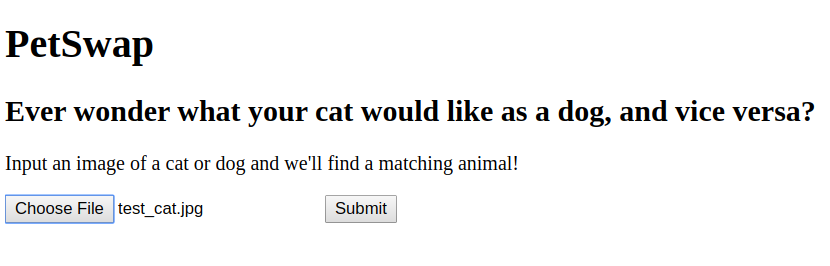
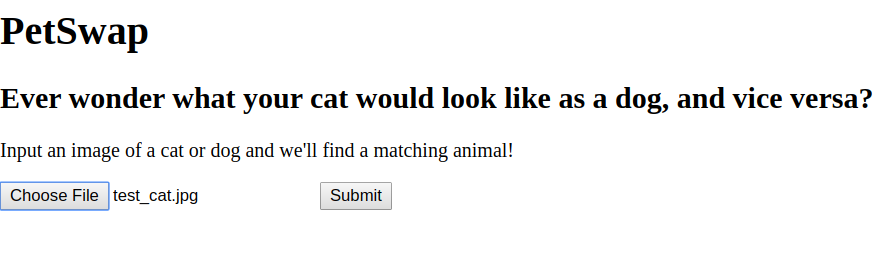
fix typo

diff --git a/templates/index.html b/templates/index.html
@@ -4,7 +4,7 @@
 
 <h1>PetSwap</h1>
 
-<h2>Ever wonder what your cat would like as a dog, and vice versa?</h2>
+<h2>Ever wonder what your cat would look like as a dog, and vice versa?</h2>
 
 <template>
   <h2>Flower</h2>
